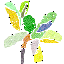
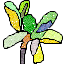
Fix compilation issues

Changed region(s): [[0.0312, 0.0, 1.0, 1.0], [0.1875, 0.1562, 0.25, 0.1875], [0.375, 0.5625, 0.4062, 0.5938]]

diff --git a/src/lib.rs b/src/lib.rs
@@ -7,45 +7,22 @@ pub use pix::{
 
 use footile::{PathOp, Plotter};
 use pointy::Pt;
-use usvg;
-use usvg::svgdom::{
-    AttributeId, AttributeValue, Document, ElementId, FilterSvg, PathSegment, WriteBuffer,
-};
+use usvg::{Options, XmlOptions, Tree, PathSegment, NodeKind, Path};
 
 /// Render an SVG onto a pixel buffer.  Returns width, height and pixels.
 pub fn render(svg: &str) -> Raster<SRgba8> {
     // Simplify SVG with usvg.
-    let tree = usvg::Tree::from_str(svg, &usvg::Options::default()).unwrap();
-    let svg = tree
-        .to_svgdom()
-        .with_write_opt(&usvg::svgdom::WriteOptions::default())
-        .to_string();
+    let options = Options::default();
+    let tree = Tree::from_str(svg, &options.to_ref()).unwrap();
+    let svg = tree.to_string(&XmlOptions::default());
     println!("SVG: {}", svg);
 
     // Render
-    let doc = Document::from_str(&svg).unwrap();
-    let mut iter = doc.root().descendants().svg();
+    let mut iter = tree.root().descendants();
 
-    let (width, height) = if let Some((id, node)) = iter.next() {
-        if id == ElementId::Svg {
-            let attrs = node.attributes();
-            let width;
-            let height;
-
-            println!("{:?}", attrs);
-
-            if let Some(&AttributeValue::Length(ref v)) = attrs.get_value(AttributeId::Width) {
-                width = v.num as u32;
-            } else {
-                panic!("Width unspecified!");
-            }
-            if let Some(&AttributeValue::Length(ref v)) = attrs.get_value(AttributeId::Height) {
-                height = v.num as u32;
-            } else {
-                panic!("Height unspecified!");
-            }
-
-            (width, height)
+    let (width, height) = if let Some(node) = iter.next() {
+        if let NodeKind::Svg(svg) = &*node.borrow() {
+            (svg.size.width() as u32, svg.size.height() as u32)
         } else {
             panic!("Not an SVG!");
         }
@@ -56,131 +33,101 @@ pub fn render(svg: &str) -> Raster<SRgba8> {
     // Make Raster
     let mut p = Plotter::new(Raster::<Rgba8p>::with_clear(width, height));
 
-    for (id, node) in iter {
-        match id {
-            ElementId::Path => {
+    for node in iter {
+        match &*node.borrow() {
+            NodeKind::Path(Path {
+                id: _id,
+                transform: _transform,
+                visibility: _visibility,
+                fill,
+                stroke,
+                rendering_mode: _shape_rendering,
+                text_bbox: _text_bbox,
+                data: path_data,
+            }) => {
                 let mut pathbuilder = Vec::new();
                 let mut old_x = 0.0f32;
                 let mut old_y = 0.0f32;
+                
+                if let Some(stroke) = stroke {
+                    pathbuilder.push(PathOp::PenWidth(stroke.width.value() as f32));
+                }
 
-                let attrs = node.attributes();
-                if let Some(&AttributeValue::Path(ref path)) = attrs.get_value(AttributeId::D) {
-                    for seg in path.iter() {
-                        println!("{:?}", seg);
-                        match seg {
-                            PathSegment::MoveTo { abs, x, y } => {
-                                if *abs {
-                                    old_x = *x as f32;
-                                    old_y = *y as f32;
-                                } else {
-                                    old_x += *x as f32;
-                                    old_y += *y as f32;
-                                }
-                                pathbuilder.push(PathOp::Move(Pt::new(old_x, old_y)));
-                            }
-                            PathSegment::LineTo { abs, x, y } => {
-                                if *abs {
-                                    old_x = *x as f32;
-                                    old_y = *y as f32;
-                                } else {
-                                    old_x += *x as f32;
-                                    old_y += *y as f32;
-                                }
-                                pathbuilder.push(PathOp::Line(Pt::new(old_x, old_y)));
-                            }
-                            PathSegment::HorizontalLineTo { abs, x } => {
-                                if *abs {
-                                    old_x = *x as f32;
-                                } else {
-                                    old_x += *x as f32;
-                                }
-                                pathbuilder.push(PathOp::Line(Pt::new(old_x, old_y)));
-                            }
-                            PathSegment::VerticalLineTo { abs, y } => {
-                                if *abs {
-                                    old_y = *y as f32;
-                                } else {
-                                    old_y += *y as f32;
-                                }
-                                pathbuilder.push(PathOp::Line(Pt::new(old_x, old_y)));
-                            }
-                            PathSegment::Quadratic { abs, x1, y1, x, y } => {
-                                let (x1, y1) = if *abs {
-                                    old_x = *x as f32;
-                                    old_y = *y as f32;
-                                    (*x1 as f32, *y1 as f32)
-                                } else {
-                                    let x1 = old_x + *x1 as f32;
-                                    let y1 = old_y + *y1 as f32;
-                                    old_x += *x as f32;
-                                    old_y += *y as f32;
-                                    (x1, y1)
-                                };
+                for seg in path_data.0.iter() {
+                    println!("{:?}", seg);
+                    match seg {
+                        PathSegment::MoveTo { x, y } => {
+                            old_x = *x as f32;
+                            old_y = *y as f32;
+                            pathbuilder.push(PathOp::Move(Pt::new(old_x, old_y)));
+                        }
+                        PathSegment::LineTo { x, y } => {
+                            old_x = *x as f32;
+                            old_y = *y as f32;
+                            pathbuilder.push(PathOp::Line(Pt::new(old_x, old_y)));
+                        }
+                        PathSegment::CurveTo {
+                            x1,
+                            y1,
+                            x2,
+                            y2,
+                            x,
+                            y,
+                        } => {
+                            let (x1, y1, x2, y2) = {
+                                old_x = *x as f32;
+                                old_y = *y as f32;
+                                (*x1 as f32, *y1 as f32, *x2 as f32, *y2 as f32)
+                            };
 
-                                pathbuilder
-                                    .push(PathOp::Quad(Pt::new(x1, y1), Pt::new(old_x, old_y)));
-                            }
-                            PathSegment::CurveTo {
-                                abs,
-                                x1,
-                                y1,
-                                x2,
-                                y2,
-                                x,
-                                y,
-                            } => {
-                                let (x1, y1, x2, y2) = if *abs {
-                                    old_x = *x as f32;
-                                    old_y = *y as f32;
-                                    (*x1 as f32, *y1 as f32, *x2 as f32, *y2 as f32)
-                                } else {
-                                    let x1 = old_x + *x1 as f32;
-                                    let y1 = old_y + *y1 as f32;
-                                    let x2 = old_x + *x2 as f32;
-                                    let y2 = old_y + *y2 as f32;
-                                    old_x += *x as f32;
-                                    old_y += *y as f32;
-                                    (x1, y1, x2, y2)
-                                };
-
-                                // TODO: verify order.
-                                pathbuilder.push(PathOp::Cubic(
-                                    Pt::new(x1, y1),
-                                    Pt::new(x2, y2),
-                                    Pt::new(old_x, old_y),
-                                ));
-                            }
-                            PathSegment::ClosePath { abs } => {
-                                if *abs {
-                                    old_x = 0.0;
-                                    old_y = 0.0;
-                                }
-                                pathbuilder.push(PathOp::Close());
-                            }
-                            a => {
-                                println!("WARNING: Path Unknown {:?}", a);
-                            }
+                            // TODO: verify order.
+                            pathbuilder.push(PathOp::Cubic(
+                                Pt::new(x1, y1),
+                                Pt::new(x2, y2),
+                                Pt::new(old_x, old_y),
+                            ));
+                        }
+                        PathSegment::ClosePath => {
+                            pathbuilder.push(PathOp::Close());
                         }
                     }
                 }
 
                 let path = pathbuilder.as_slice();
 
-                if let Some(&AttributeValue::Color(ref c)) = attrs.get_value(AttributeId::Fill) {
-                    p.fill(
-                        footile::FillRule::NonZero,
-                        path,
-                        SRgba8::new(c.red, c.green, c.blue, 255).convert(),
-                    );
+                if let Some(fill) = fill {
+                    let fill_rule = match fill.rule {
+                        usvg::FillRule::NonZero => footile::FillRule::NonZero,
+                        usvg::FillRule::EvenOdd => footile::FillRule::EvenOdd,
+                    };
+                    let fill_alpha = fill.opacity.to_u8();
+                    let fill_color = match fill.paint {
+                        usvg::Paint::Color(usvg::Color { red, green, blue }) => SRgba8::new(red, green, blue, fill_alpha),
+                        usvg::Paint::Link(_) => SRgba8::new(0, 0, 0, fill_alpha),
+                    };
+                    p.fill(fill_rule, path, fill_color.convert());
                 }
 
-                if let Some(&AttributeValue::Color(ref c)) = attrs.get_value(AttributeId::Stroke) {
-                    p.stroke(path, SRgba8::new(c.red, c.green, c.blue, 255).convert());
+                if let Some(stroke) = stroke {
+                    let stroke_alpha = stroke.opacity.to_u8();
+                    let stroke_color = match stroke.paint {
+                        usvg::Paint::Color(usvg::Color { red, green, blue }) => SRgba8::new(red, green, blue, stroke_alpha),
+                        usvg::Paint::Link(_) => SRgba8::new(0, 0, 0, stroke_alpha),
+                    };
+                    let stroke_miter_limit = stroke.miterlimit.value();
+                    let stroke_line_join = match stroke.linejoin {
+                        usvg::LineJoin::Miter => footile::JoinStyle::Miter(stroke_miter_limit as f32),
+                        usvg::LineJoin::Bevel => footile::JoinStyle::Bevel,
+                        usvg::LineJoin::Round => footile::JoinStyle::Round,
+                    };
+                    p.set_join(stroke_line_join);
+                    p.stroke(path, stroke_color.convert());
                 }
+
                 // END PATH
             }
             a => {
-                println!("WARNING: Element Unknown {}", a);
+                println!("WARNING: Element Unknown {a:?}");
             }
         }
     }
